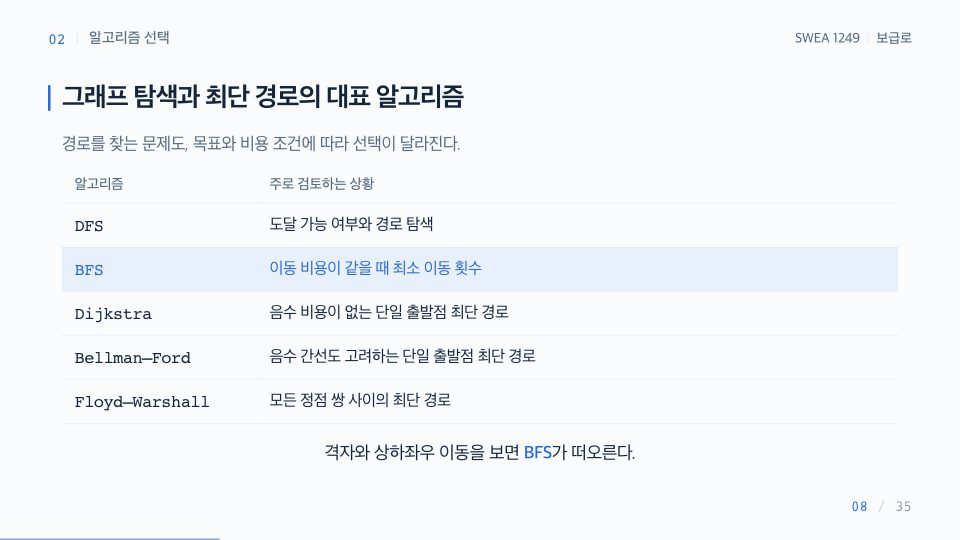
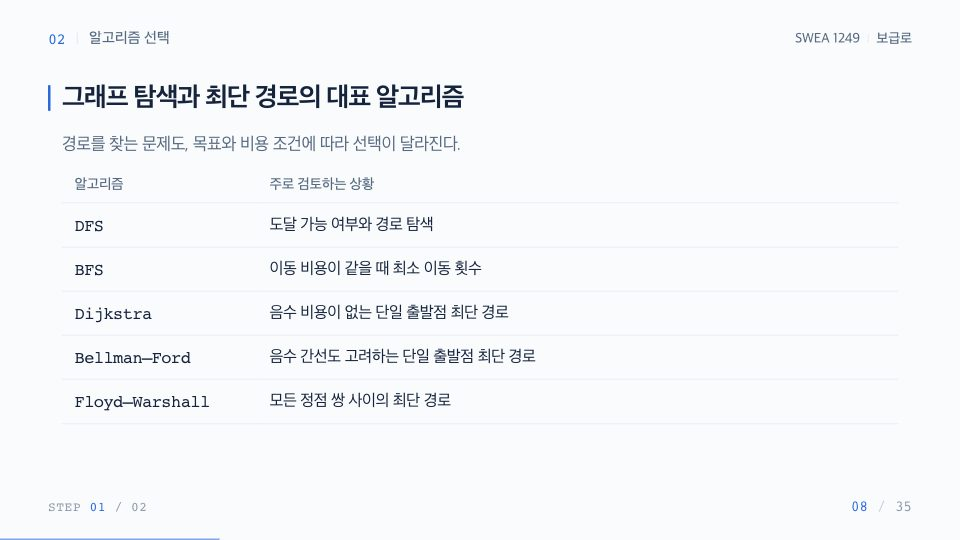
Restore candidate slide steps and shorten automatic reveals

diff --git a/src/app/deck.test.ts b/src/app/deck.test.ts
@@ -41,12 +41,12 @@ test("selection introduces candidates and graph interpretation before BFS and it
   );
 });
 
-test("only pages 05, 06, 08, 09 and 10 reveal automatically with no manual steps", () => {
+test("only pages 05, 06, 09 and 10 reveal automatically with no manual steps", () => {
   const automatic = slides.filter(slide => slide.autoRevealStages !== undefined);
-  assert.deepEqual(automatic.map(slide => slides.indexOf(slide) + 1), [5, 6, 8, 9, 10]);
+  assert.deepEqual(automatic.map(slide => slides.indexOf(slide) + 1), [5, 6, 9, 10]);
   assert.deepEqual(automatic.map(slide => slide.id),
-    ["rules", "objective", "candidates", "interpretation", "bfs"]);
-  assert.deepEqual(automatic.map(slide => slide.autoRevealStages), [3, 3, 6, 4, 4]);
+    ["rules", "objective", "interpretation", "bfs"]);
+  assert.deepEqual(automatic.map(slide => slide.autoRevealStages), [3, 3, 4, 4]);
   const lengths = slides.map(slide => slide.steps);
   const reduce = createPresentationReducer(lengths);
   for (const slide of automatic) {
@@ -62,6 +62,21 @@ test("only pages 05, 06, 08, 09 and 10 reveal automatically with no manual steps
   }
   assert.equal(slides.find(slide => slide.id === "counterexample")?.steps, 3);
   assert.equal(slides.find(slide => slide.id === "choice")?.steps, 4);
+});
+
+test("page 08 has two manual steps with reversible navigation and URL restoration", () => {
+  assert.equal(slides[7].id, "candidates");
+  assert.equal(slides[7].steps, 2);
+  assert.equal(slides[7].autoRevealStages, undefined);
+  const lengths = slides.map(slide => slide.steps);
+  const reduce = createPresentationReducer(lengths);
+  const first = readLocation("?scene=8&step=1", lengths);
+  const second = reduce(first, { type: "next" });
+  assert.equal(second.index, 7);
+  assert.equal(second.step, 1);
+  assert.deepEqual(second, readLocation("?scene=8&step=2", lengths));
+  assert.deepEqual(reduce(second, { type: "previous" }), first);
+  assert.equal(reduce(second, { type: "next" }).index, 8);
 });
 
 test("grid execution follows the code directly inside chapter four", () => {

diff --git a/src/app/automaticReveal.test.ts b/src/app/automaticReveal.test.ts
@@ -6,6 +6,7 @@ import { AUTO_REVEAL_INTERVAL_MS, scheduleAutomaticReveal } from "./automaticRev
 import { AlgorithmCandidates } from "../components/AlgorithmSelection";
 
 test("entrance phases appear in order, once, then stop", context => {
+  assert.equal(AUTO_REVEAL_INTERVAL_MS, 300);
   context.mock.timers.enable({ apis: ["setTimeout"] });
   const seen: number[] = [];
   const cleanup = scheduleAutomaticReveal(4, stage => seen.push(stage));
@@ -50,17 +51,19 @@ test("StrictMode setup and cleanup do not duplicate entrance phases", context =>
   cleanup();
 });
 
-test("candidate rows reveal individually before the concluding BFS emphasis", () => {
-  for (let stage = 0; stage <= 5; stage++) {
-    const html = renderToStaticMarkup(createElement(AlgorithmCandidates, { step: stage }));
+test("all candidate rows are visible from step one, with BFS emphasis and text only at step two", () => {
+  for (let step = 0; step <= 1; step++) {
+    const html = renderToStaticMarkup(createElement(AlgorithmCandidates, { step }));
     const tbody = html.split("<tbody>")[1].split("</tbody>")[0];
     const rows = tbody.match(/<tr\b[^>]*>/g) ?? [];
     assert.equal(rows.length, 5);
-    rows.forEach((row, index) => {
-      assert.ok(row.includes(`aria-hidden="${index > stage}"`));
-      assert.ok(row.includes(`opacity:${index > stage ? 0 : 1}`));
-    });
-    assert.equal(html.includes('class="candidate-bfs"'), stage === 5);
-    assert.ok(html.includes(`class="selection-takeaway" aria-hidden="${stage < 5}"`));
+    assert.ok(!tbody.includes('aria-hidden="true"'));
+    assert.ok(!tbody.includes("opacity:0"));
+    for (const name of ["DFS", "BFS", "Dijkstra", "Bellman–Ford", "Floyd–Warshall"]) {
+      assert.ok(tbody.includes(name));
+    }
+    assert.equal(html.includes('class="candidate-bfs"'), step === 1);
+    assert.ok(html.includes(`class="selection-takeaway" aria-hidden="${step === 0}"`));
+    assert.ok(html.split('class="selection-takeaway"')[1].includes(`opacity:${step}`));
   }
 });

diff --git a/src/components/AlgorithmSelection.tsx b/src/components/AlgorithmSelection.tsx
@@ -1,10 +1,9 @@
 import { algorithmChoices } from "../slides/algorithmChoices";
 import { Reveal } from "./ConceptVisuals";
 import { Icon } from "./Icon";
-import { motion } from "framer-motion";
 
 export function AlgorithmCandidates({ step }: { step: number }) {
-  const complete = step >= algorithmChoices.length;
+  const complete = step >= 1;
   return (
     <div className="algorithm-candidates">
       <p className="selection-lead">
@@ -18,20 +17,16 @@ export function AlgorithmCandidates({ step }: { step: number }) {
           </tr>
         </thead>
         <tbody>
-          {algorithmChoices.map((algorithm, index) => (
-            <motion.tr
+          {algorithmChoices.map((algorithm) => (
+            <tr
               key={algorithm.id}
-              initial={false}
-              animate={{ opacity: step >= index ? 1 : 0 }}
-              transition={{ duration: 0.35 }}
-              aria-hidden={step < index}
               className={
                 complete && algorithm.id === "bfs" ? "candidate-bfs" : ""
               }
             >
               <th scope="row">{algorithm.name}</th>
               <td>{algorithm.purpose}</td>
-            </motion.tr>
+            </tr>
           ))}
         </tbody>
       </table>

diff --git a/src/slides/deck.ts b/src/slides/deck.ts
@@ -1,7 +1,6 @@
 import { graphPresentationSteps, gridSteps } from "../dijkstra/snapshots";
 import { chapters } from "./chapters";
 import { javaSteps, gridCodeSteps } from "./code";
-import { algorithmChoices } from "./algorithmChoices";
 
 export type SlideDefinition = {
   id: string;
@@ -50,8 +49,7 @@ const contentSlides = [
     section: "02",
     sectionName: "알고리즘 선택",
     title: "그래프 탐색과 최단 경로의 대표 알고리즘",
-    steps: 1,
-    autoRevealStages: algorithmChoices.length + 1,
+    steps: 2,
   },
   {
     id: "interpretation",

diff --git a/src/app/automaticReveal.ts b/src/app/automaticReveal.ts
@@ -1,4 +1,4 @@
-export const AUTO_REVEAL_INTERVAL_MS = 900;
+export const AUTO_REVEAL_INTERVAL_MS = 300;
 
 // Schedule a finite entrance sequence, never a presentation navigation action.
 // Cleanup cancels pending phases on slide exit, reset, or StrictMode remount.

diff --git a/README.md b/README.md
@@ -36,7 +36,9 @@ npm run preview -- --port 5189
 
 일반 화면에서는 왼쪽에 35장 전체의 캡처 썸네일과 번호를 표시합니다. 각 이미지는 실제 슬라이드 첫 단계의 960×540 JPEG이며, 제목은 툴팁과 접근성 이름으로 제공합니다. 현재 슬라이드를 파란 테두리로 강조하고 목록을 자동으로 스크롤합니다. 이미지를 선택하면 자동재생을 멈추고 해당 슬라이드의 첫 단계로 이동합니다. 목록에서는 ↑/↓, Home/End로 포커스를 옮기고 Enter/Space로 선택합니다. 선택 후에는 발표 영역으로 포커스가 돌아갑니다. 목록 상단 전체화면 버튼 또는 F를 누르면 목록을 숨기며, 전체화면을 종료하면 현재 위치를 유지한 채 다시 표시합니다.
 
-05·06·08·09·10페이지는 수동 STEP 없이 진입 시 약 0.9초 간격으로 내용을 순차 공개합니다. 08페이지는 후보 목록을 한 줄씩 보여준 뒤 BFS를 강조합니다. 다음 키는 공개가 끝나기 전에도 바로 다음 슬라이드로 이동하고, 다른 슬라이드에서 돌아오거나 R을 누르면 처음부터 다시 등장합니다. 공개는 한 번만 진행하며 자동으로 다음 페이지를 넘기지 않습니다. 동작 줄이기 설정에서는 대기 없이 전체 내용을 표시합니다. 이 다섯 페이지의 썸네일에는 전체 내용이 나타난 모습을 사용합니다.
+05·06·09·10페이지는 수동 STEP 없이 진입 시 약 0.3초 간격으로 내용을 순차 공개합니다. 다음 키는 공개가 끝나기 전에도 바로 다음 슬라이드로 이동하고, 다른 슬라이드에서 돌아오거나 R을 누르면 처음부터 다시 등장합니다. 공개는 한 번만 진행하며 자동으로 다음 페이지를 넘기지 않습니다. 동작 줄이기 설정에서는 대기 없이 전체 내용을 표시합니다. 이 네 페이지의 썸네일에는 전체 내용이 나타난 모습을 사용합니다.
+
+08페이지는 수동 2단계입니다. STEP 1에서는 표 전체가 처음부터 보이고, STEP 2에서 BFS 행의 파란색 강조와 하단 문구가 함께 나타납니다. 한 번 더 넘기면 다음 슬라이드로 이동합니다.
 
 URL `?scene=22&step=11`처럼 **1-based** 슬라이드·단계 번호로 직접 열 수 있습니다. 현재 위치는 URL에 반영되어 새로고침해도 복원됩니다. 자동재생 여부는 복원하지 않습니다. 자동 등장 페이지의 이전 단계 URL은 `step=1`로 정규화합니다.
 
@@ -90,7 +92,7 @@ URL `?scene=22&step=11`처럼 **1-based** 슬라이드·단계 번호로 직접 
 
 슬라이드 내용이 바뀌면 `scripts/capture-slide-thumbnails.js`를 Playwright CLI의 `run-code --filename`으로 실행해 썸네일을 다시 생성합니다. 먼저 개발 서버의 일반 화면을 열어 두어야 합니다. 결과는 `output/playwright/slide-thumbnails/`에 저장되며, 확인 후 `public/slide-thumbnails/`에 복사하고 다시 빌드합니다. 캡처 중에만 목록과 조작부를 숨기며 발표 코드는 변경하지 않습니다. 파일명은 페이지 순서 대신 슬라이드 ID를 사용합니다.
 
-`npm test`는 42개 검증을 수행합니다. 문서의 모든 핵심 갱신, 정확한 간선·PQ 순서·최종 경로, 과거 스냅샷 독립성, 비용 0·순환·단일 칸, 80개 고정 시드 격자와 독립 Bellman–Ford 비교, 이전/다음 역연산, Reset·자동재생·URL 범위를 확인합니다. 실제 35장 구성의 모든 단계와 챕터 경계, 목차 순서, 알고리즘 선택 순서, 다익스트라 학습 순서, 축약 실행의 사건 보존, 갱신과 확정의 구분도 검증합니다. 후보를 꺼낸 뒤 비교하는 순서와 그 사이의 거리·확정 상태 보존, PQ 안에서의 사전 판정 표시가 없는지도 검증합니다. Java 코드 발췌의 원래 변수·자료구조 유지, 단계별 코드 범위와 강조 줄, 전체 보급로 코드와 발췌의 일치, 목적지 조기 종료 시 남은 PQ와 상태 보존도 확인합니다. 탐색 목록은 35개 항목과 현재 페이지의 정적 렌더링, JPEG 이미지 파일의 존재와 완전성, 키보드 포커스 범위, 선택 시 단계·재생 상태와 URL 복원, 표시 영역에 맞는 배율 계산을 검증합니다. 보급로 코드·격자 실행·결과가 같은 챕터에서 연속하는지도 검증합니다. 마지막 선택 기준과 핵심 복습 사이에 추가 챕터 전환이 없는지도 확인합니다. 자동 등장 대상 다섯 페이지의 단일 넘김, 이전 URL 정규화, 0.9초 간격과 종료, 페이지 이탈 시 타이머 취소, 재진입과 StrictMode에서의 중복 방지, 후보 목록의 한 줄씩 공개도 검증합니다.
+`npm test`는 43개 검증을 수행합니다. 문서의 모든 핵심 갱신, 정확한 간선·PQ 순서·최종 경로, 과거 스냅샷 독립성, 비용 0·순환·단일 칸, 80개 고정 시드 격자와 독립 Bellman–Ford 비교, 이전/다음 역연산, Reset·자동재생·URL 범위를 확인합니다. 실제 35장 구성의 모든 단계와 챕터 경계, 목차 순서, 알고리즘 선택 순서, 다익스트라 학습 순서, 축약 실행의 사건 보존, 갱신과 확정의 구분도 검증합니다. 후보를 꺼낸 뒤 비교하는 순서와 그 사이의 거리·확정 상태 보존, PQ 안에서의 사전 판정 표시가 없는지도 검증합니다. Java 코드 발췌의 원래 변수·자료구조 유지, 단계별 코드 범위와 강조 줄, 전체 보급로 코드와 발췌의 일치, 목적지 조기 종료 시 남은 PQ와 상태 보존도 확인합니다. 탐색 목록은 35개 항목과 현재 페이지의 정적 렌더링, JPEG 이미지 파일의 존재와 완전성, 키보드 포커스 범위, 선택 시 단계·재생 상태와 URL 복원, 표시 영역에 맞는 배율 계산을 검증합니다. 보급로 코드·격자 실행·결과가 같은 챕터에서 연속하는지도 검증합니다. 마지막 선택 기준과 핵심 복습 사이에 추가 챕터 전환이 없는지도 확인합니다. 자동 등장 대상 네 페이지의 단일 넘김, 이전 URL 정규화, 0.3초 간격과 종료, 페이지 이탈 시 타이머 취소, 재진입과 StrictMode에서의 중복 방지도 검증합니다. 08페이지는 두 단계 모두 표 전체가 보이고, 두 번째 단계에서만 BFS와 하단 문구가 강조되며 이전·다음과 URL 복원이 가능한지 확인합니다.
 
 Java 예제는 `javac`로 컴파일하고 문서의 3×3 격자, 1×1, 비용 0 격자, 비용이 다른 2×2 격자에서 각각 3, 0, 0, 1을 확인했습니다.
 
